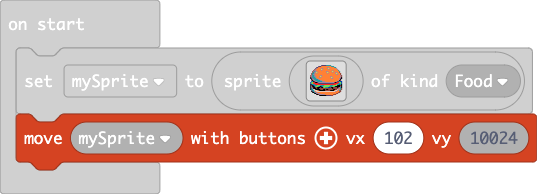
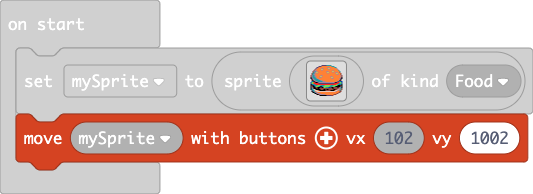
Update main.blocks, main.ts

diff --git a/main.ts b/main.ts
@@ -32,4 +32,4 @@ f 6 6 d d f f f f f e e e f f e f f e e e e e f f e e d b 4 6 e
 . . . . . . . . . f f f f f f f c c c c c e e . . . . . . . . . 
 . . . . . . . . . . . . . . . . . . . . . . . . . . . . . . . . 
 `, SpriteKind.Food)
-controller.moveSprite(mySprite, 102, 10024)
+controller.moveSprite(mySprite, 102, 1002)
